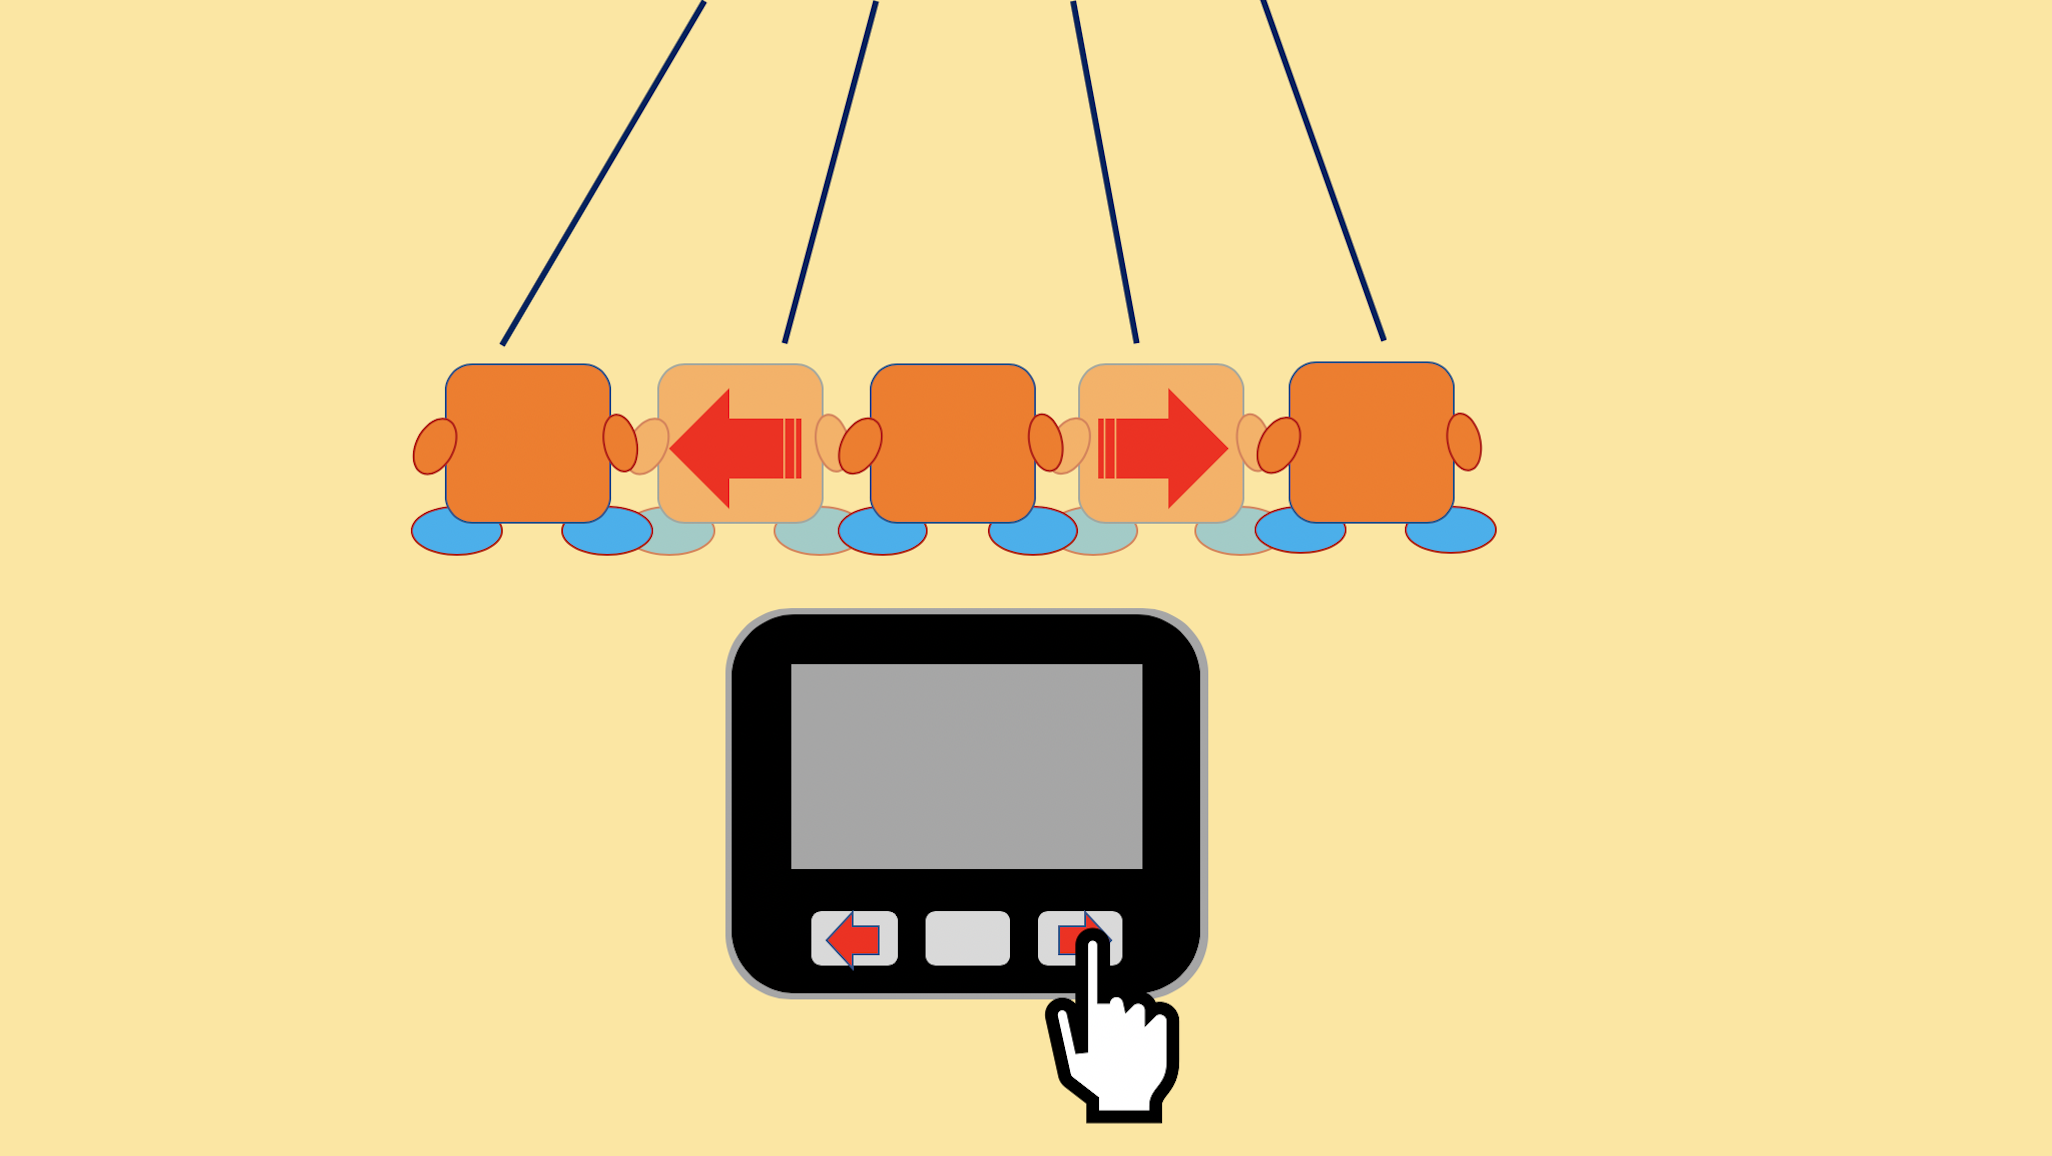
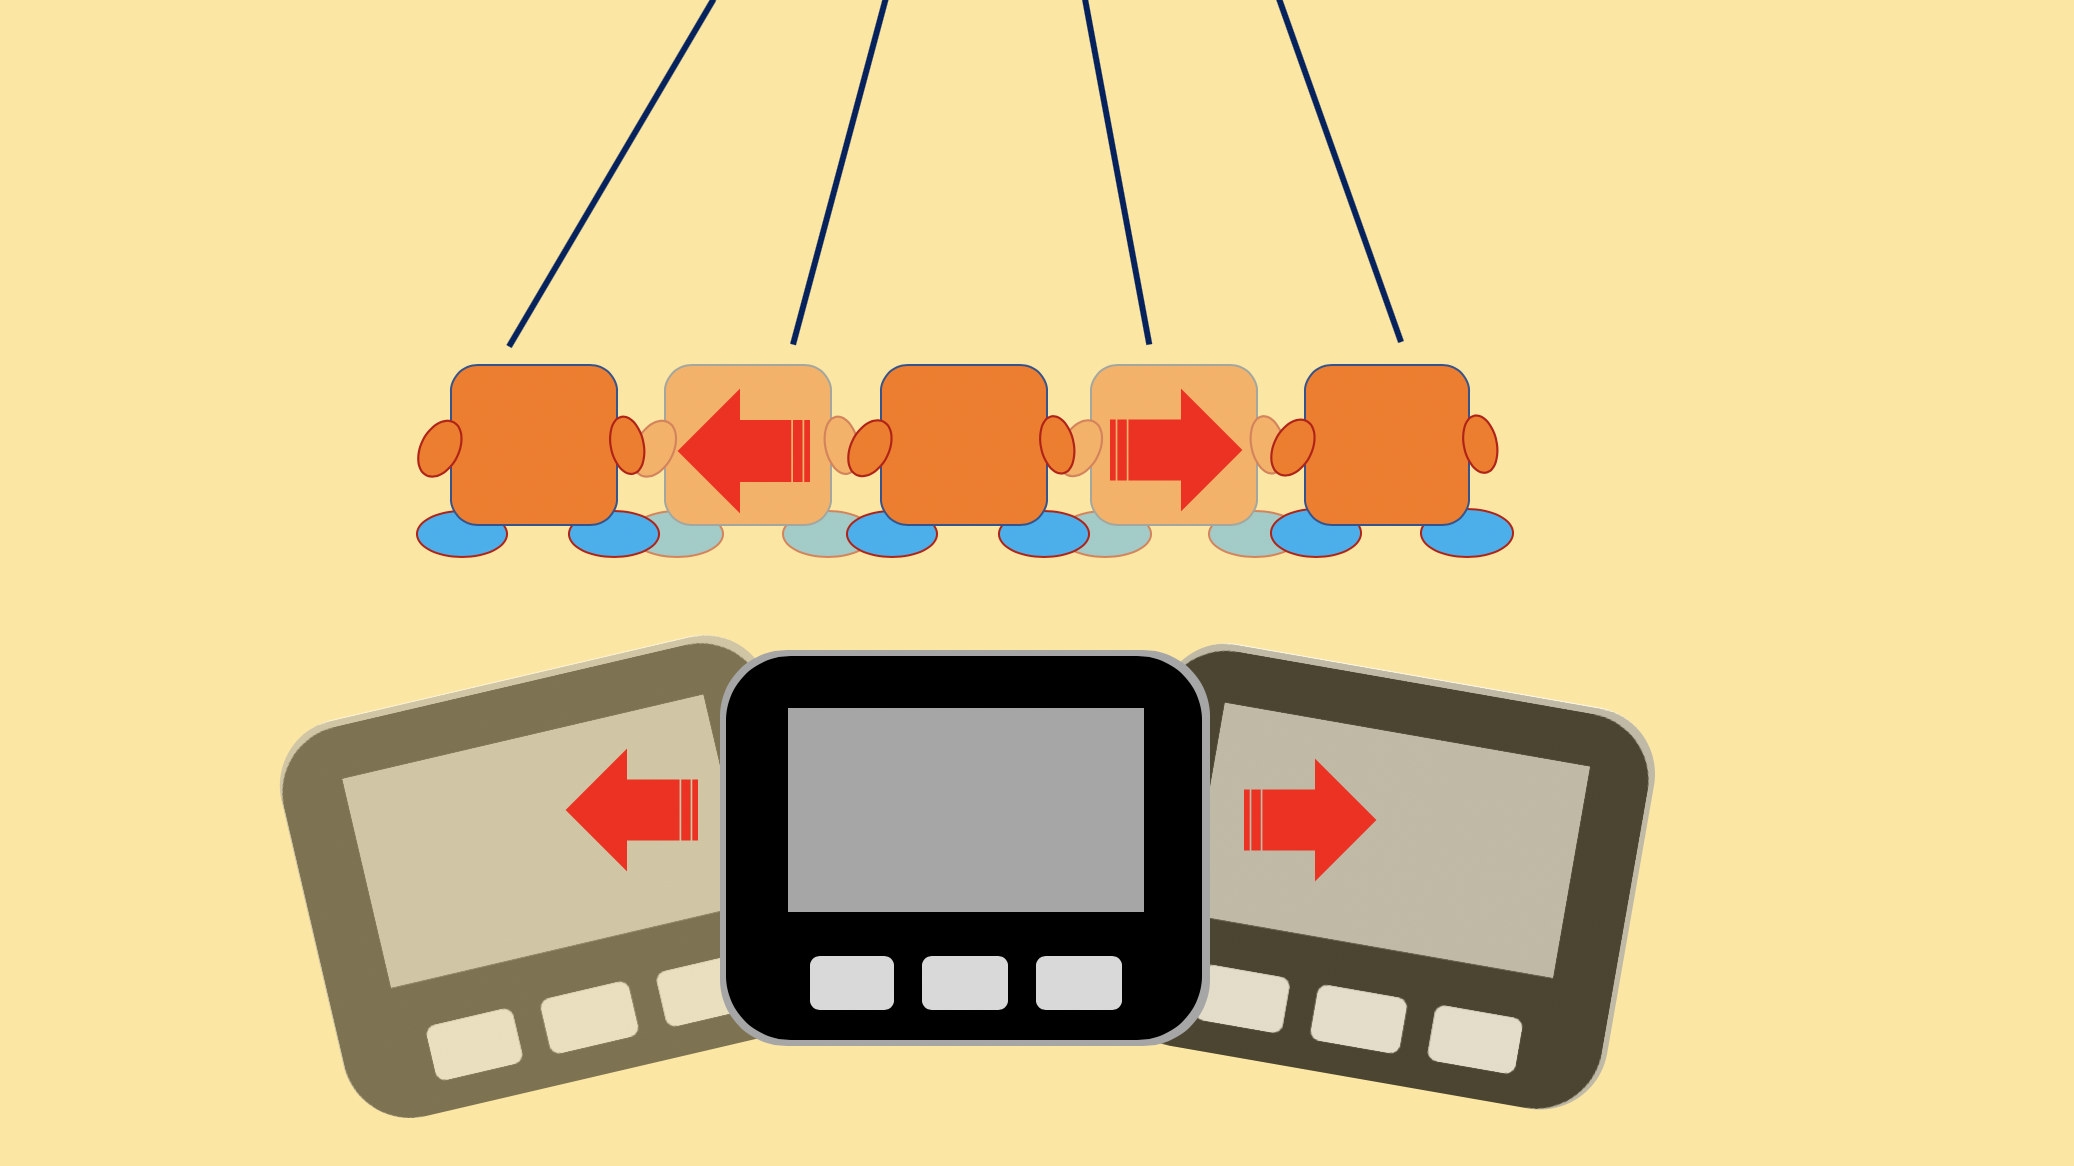
update Web Instruction

diff --git a/Web/js/script.js b/Web/js/script.js
@@ -29,7 +29,7 @@ function changeTextImg (getValue) {
         carousel.getElementsByClassName("instruction")[0].innerHTML = "In this game, you have to use M5 Stack in order to play the game. You are able to use M5 Stack to control the character's movement and to shoot the \"flying gift\".";
     }
     else if (getValue == 1) {
-        carousel.getElementsByClassName("instruction")[0].innerHTML = "You are able to control the character to move to left (right) with pressing the left (right) button of M5 Stack.";
+        carousel.getElementsByClassName("instruction")[0].innerHTML = "You are able to control the character's movement by sloping M5 Stack to the left or right.";
     }
     else if (getValue == 2) {
         carousel.getElementsByClassName("instruction")[0].innerHTML = "Eat as much as you can in order to increase your points. Each food do have a corresponding point, your points will not be deduced if you miss the food.";
@@ -38,7 +38,7 @@ function changeTextImg (getValue) {
         carousel.getElementsByClassName("instruction")[0].innerHTML = "Keep away from the bomb otherwise you will die!!";
     }
     else if (getValue == 4) {
-        carousel.getElementsByClassName("instruction")[0].innerHTML = "If you see the gift appears, use M5 Stack to point to the gift and press the middle button for shooting. You will get extra points.";
+        carousel.getElementsByClassName("instruction")[0].innerHTML = "If you see the gift appears, use the pointer (white square) to point to the gift for shooting. You will get extra points.";
     }
     else if (getValue == 5) {
         carousel.getElementsByClassName("instruction")[0].innerHTML = "Each food has a corresponding points.";
